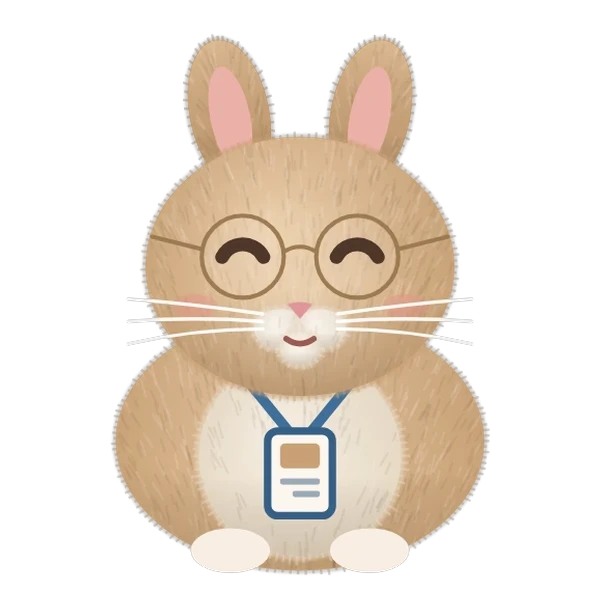
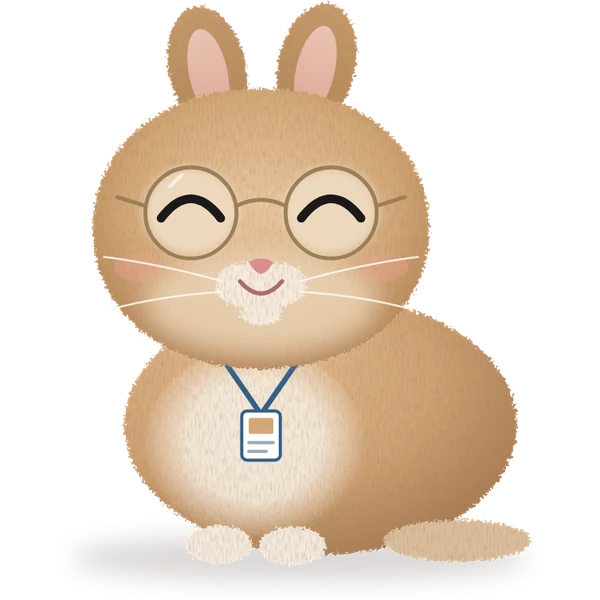
キャラクターの絵を、アニメの絵そのものに入れ替える
オーナー：ゲームとアニメでキャラクターが少し違う。アニメのデザインを正にして、すべてそろえる。
アニメを描いている道具（renjill-auto の rig）で書き出した絵に、サイト中の 3 人を入れ替え。共有用の画像も作り直し。

Claude-Session: https://claude.ai/code/session_01KYhWQVkUVFVXPun7Dy396r

diff --git a/docs/POLISH-2026-11-15.md b/docs/POLISH-2026-11-15.md
@@ -71,3 +71,7 @@
 49. 「もっと見る」の上に余白がない → エピソードの札が、出てきた後も 28px 下にずれたままだった（不具合）。直して、検査 53 番に「余白 20px 以上・ずれたままの札がない」を足した
 （カーソルを当てると笑顔になるのは、そのまま）
 50. 右の列のゲームのボタンが見づらい → 原因：色の変わり目の「丸い波」の飾りが、同じ名前（game）を持つこのボタンにもかかっていた。ゲームの欄だけに限り、ボタンはほかの印と同じ太さの塗りの形（黄色の地）に。検査で同じ取り違えを見張る
+
+## 9. キャラクターの絵を、アニメの絵そのものに（オーナー：「ゲームとアニメで絶妙に違う。アニメが正」）
+51. キャラクター紹介・最初の画面・関係の図・小さな顔・お見送り・404・共有用の画像：ゲームの描き方の絵をやめ、アニメを描いている道具（renjill-auto の rig）そのもので書き出した絵に入れ替え（耳の形・口もと・色・体つきがアニメと同じ）
+52. 書き出しの道具を renjill-auto に置いた（rig/portraits.js。アニメの絵が変われば、同じ手順で作り直せる）
